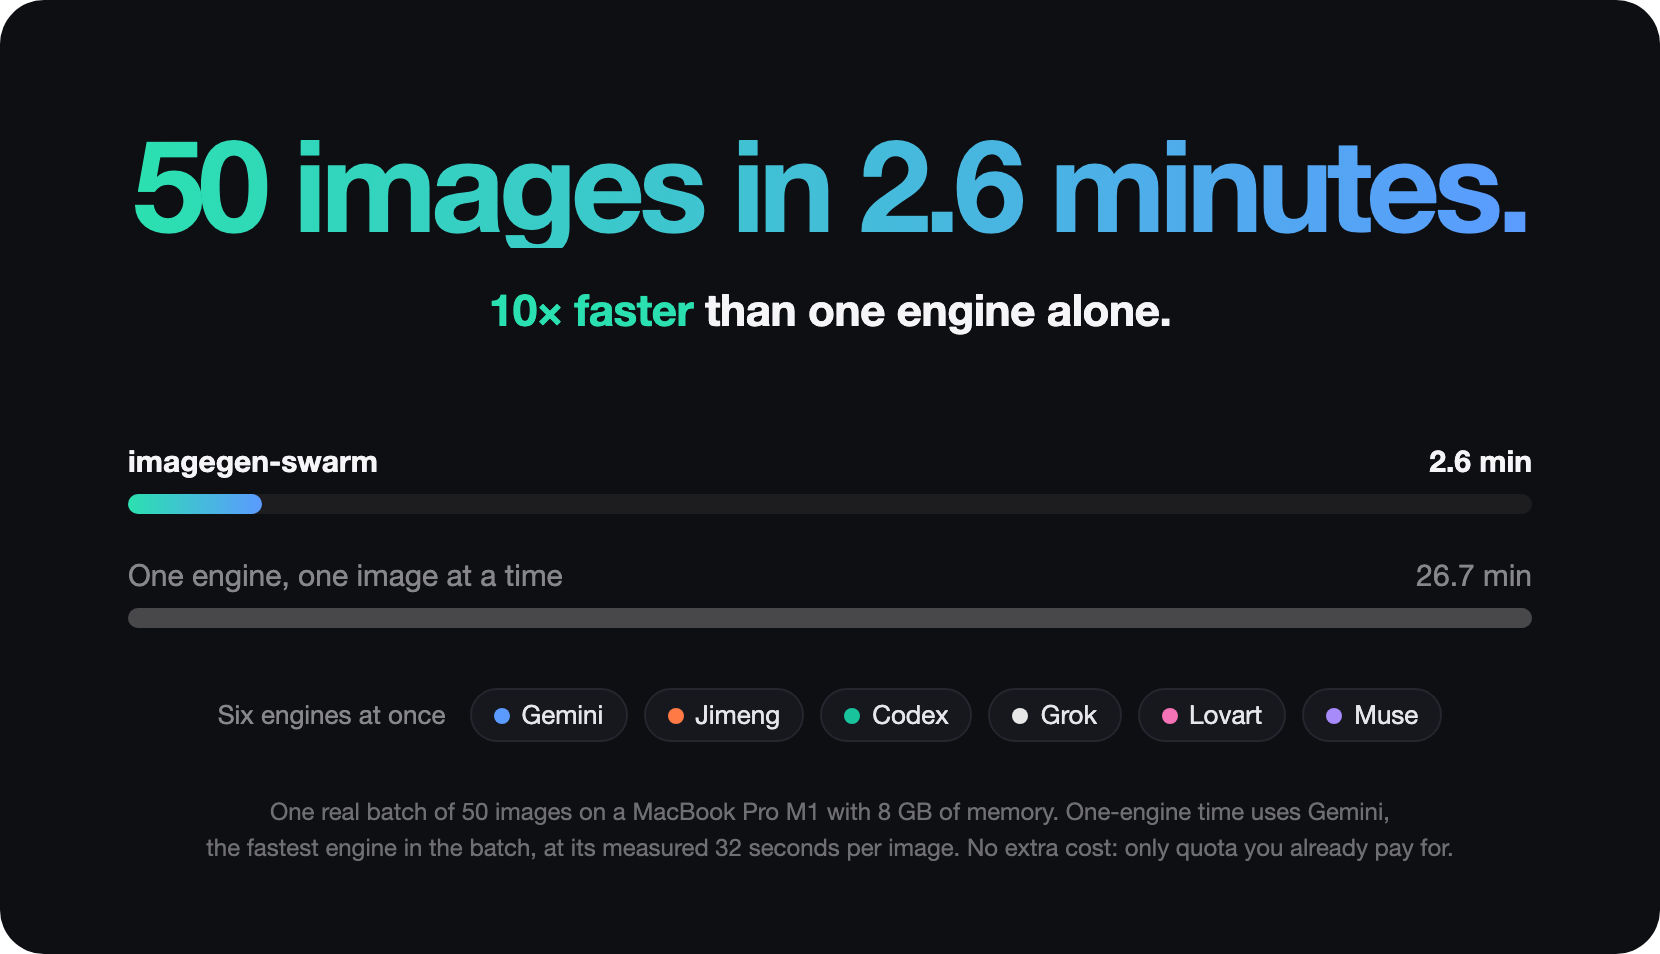
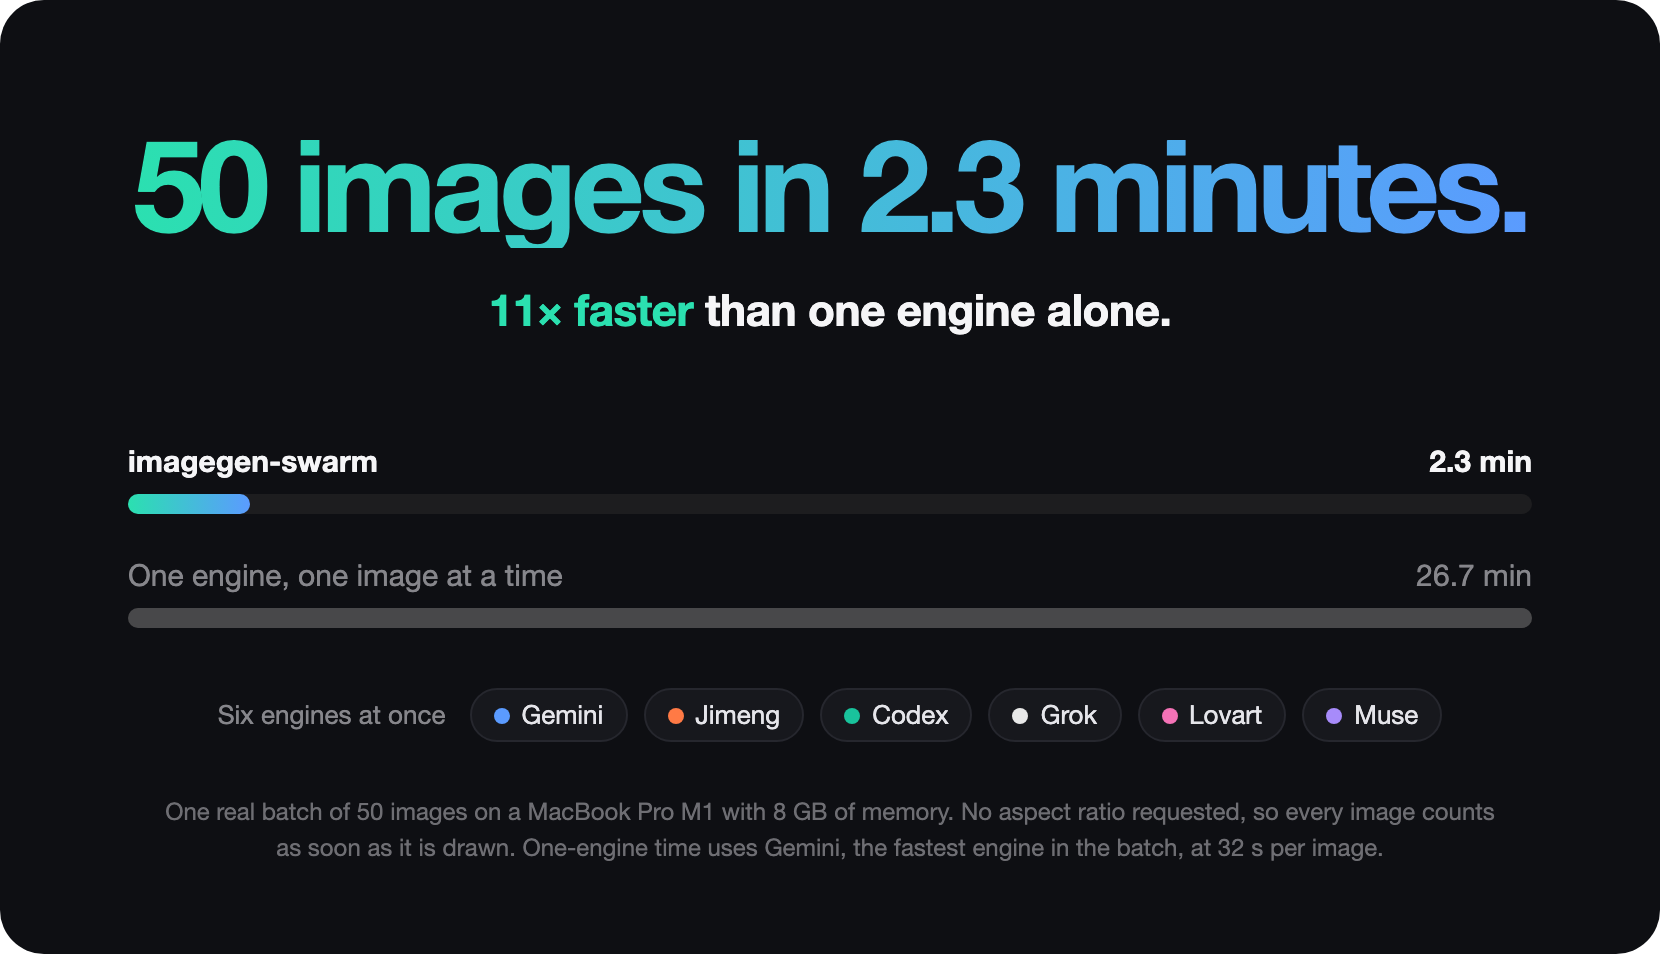
README charts: count the batch with no aspect ratio requested (50 images in 2.3 min, 11x faster)

diff --git a/README.md b/README.md
@@ -4,7 +4,7 @@
 
 [中文说明](README.zh-CN.md)
 
-![50 images in 2.6 minutes, 10 times faster than one engine alone, on an 8 GB M1 MacBook Pro](docs/efficiency.png)
+![50 images in 2.3 minutes, 11 times faster than one engine alone, on an 8 GB M1 MacBook Pro](docs/efficiency.png)
 
 ## How the work is shared
 

diff --git a/README.zh-CN.md b/README.zh-CN.md
@@ -4,7 +4,7 @@
 
 [English](README.md)
 
-![50 张图 2.6 分钟出完，比单个引擎快 10 倍，8GB 内存的 M1 MacBook Pro 上实测](docs/efficiency.png)
+![50 张图 2.3 分钟出完，比单个引擎快 11 倍，8GB 内存的 M1 MacBook Pro 上实测](docs/efficiency.png)
 
 ## 活是怎么分的
 
